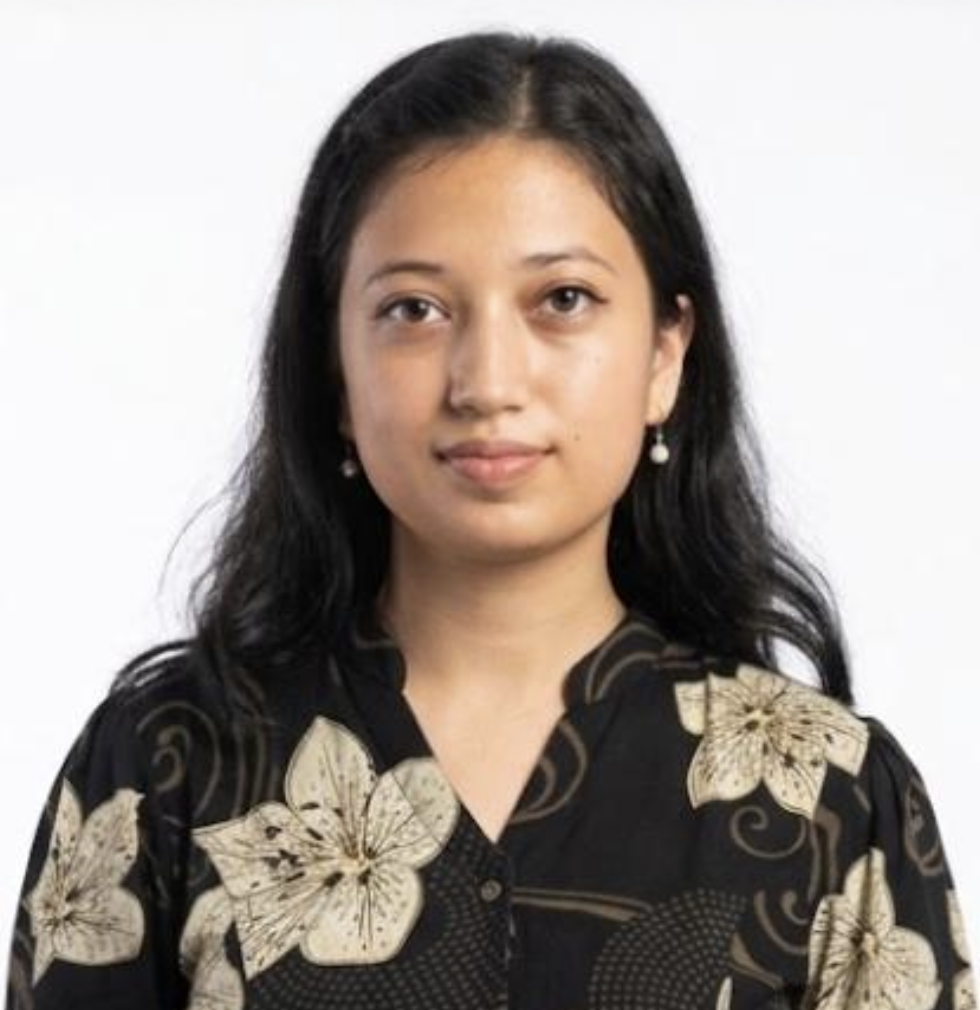
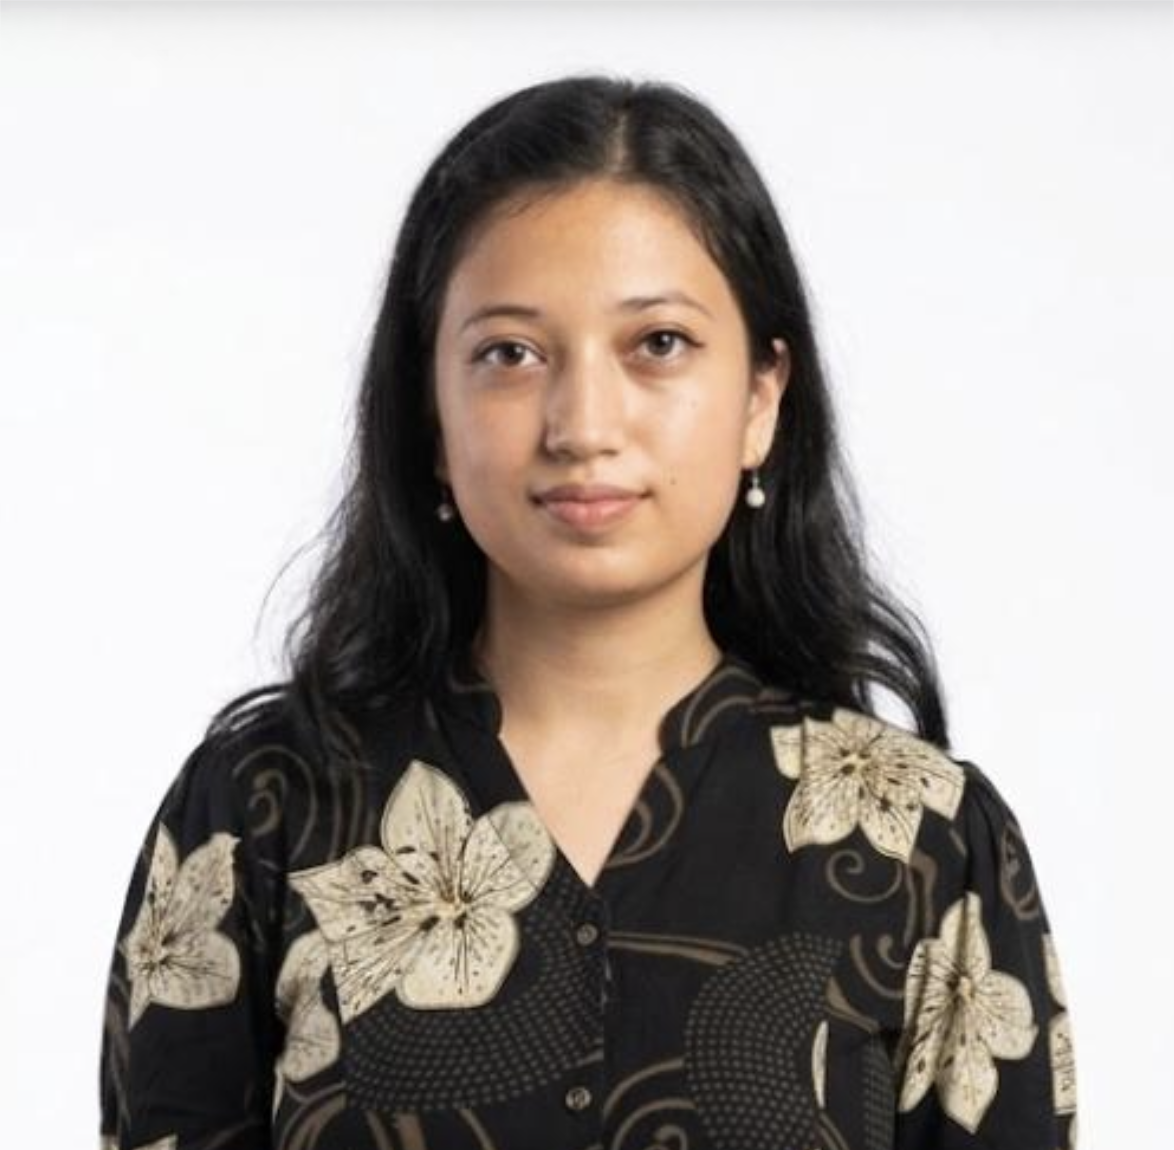
Final Website

diff --git a/src/components/Team.tsx b/src/components/Team.tsx
@@ -10,20 +10,20 @@ export function Team({ hideHeader = false }: TeamProps) {
     {
       name: "Aryan Basnet",
       position: "Founder & Chief Executive Officer",
-      image: "/images/aryan-basnet-founder-vidhata-nepal.png",
+      image: "/images/aryan_basnet_founder_vidhata.png",
       description:
         "Aryan is a technologist, social entrepreneur, policy researcher, and AI engineer. As the Founder & CEO of Vidhata, he leads the organization’s vision, strategy, and growth, bringing together his interests in technology, education, and social development. His work spans artificial intelligence, entrepreneurship, research, and public policy, with a particular focus on using technology and innovation to address complex societal challenges. His areas of interest include AI, education, economics, and public policy, with a broader commitment to creating practical and sustainable solutions that expand opportunities for underserved communities.",
       instagram: "https://www.instagram.com/__aryanbasnet__/",
       email: "mailto:basnetaryan05@gmail.com",
     },
     {
-      name: "Akhilesh Regmi",
-      position: "Chief Technology Officer",
-      image: "/images/akhilesh_regmi.png",
+      name: "Yunisha Mainali",
+      position: "Chief Operating Officer",
+      image: "/images/yunisha_mainali.png",
       description:
-        "Akhilesh is a multidisciplinary technologist and creative problem-solver with a strong commitment to innovation. As Chief Technology Officer, he blends technical expertise with design-oriented thinking to build intuitive, scalable digital solutions. His logical approach and creative perspective guide the organization’s technology strategy and its mission-driven impact.",
-      instagram: "https://www.instagram.com/akhilesh_regmi/",
-      email: "mailto:akhileshregmi@gmail.com",
+        "Yunisha is a dedicated and thoughtful leader with a strong foundation in business and organizational management. As Vidhata’s Chief Operating Officer, she oversees daily operations, coordinates teams, and works to ensure that the organization’s initiatives are executed smoothly and effectively. With a BBA background, she brings a practical understanding of planning, management, and organizational strategy to her role. Her ability to align people, streamline processes, and keep teams focused on shared goals helps strengthen Vidhata’s operations and ensures that its programs reach students effectively.",
+      instagram: "http://instagram.com/yuni.tuni/",
+      email: "mailto:yunishamainali@gmail.com",
     },
     {
       name: "Irashu Karki",
@@ -31,35 +31,52 @@ export function Team({ hideHeader = false }: TeamProps) {
       image: "/images/irashu_karki.png",
       description:
         "Irashu is an aspiring educator, interdisciplinary thinker, and purpose-driven leader committed to shaping meaningful learning experiences for young students across Nepal. As the Chief of Curriculum Development, she blends pedagogical insight, storytelling, and design-driven thinking to create interactive modules that spark curiosity and build foundational life skills in learners. Irashu brings a rare combination of empathy, clarity, and creativity into every classroom she steps into.",
-      instagram: "https://www.instagram.com/swap.nilbhattarai/",
-      email: "mailto:swapnilbhattarai2006@gmail.com",
+      email: "mailto:irashukarki200@gmail.com",
     },
     {
-      name: "Aryan Bhattarai",
-      position: "Chief Operating Officer",
-      image: "/images/aryan_bhattarai.png",
-      description:
-        "Aryan is a dedicated leader, guided by integrity and a strong will to serve his community. As the Chief Operating Officer, he oversees daily operations and ensures that all projects and members share Vidhata's core values. By designing strategies, aligning teams, and removing operational bottlenecks, he maintains efficient executions within the organization. Through his efforts, Vidhata's quality learning opportunities reach students as smoothly as possible.",
-      instagram: "https://www.instagram.com/aryanbhattarai_/",
-      email: "mailto:aryanbhattarai007@gmail.com",
-    },
-    {
-      name: "Bigyashree Khatri",
+      name: "Krizma Poudel",
       position: "Chief of Project Management",
-      image: "/images/bigyashree_khatri.png",
+      image: "/images/krizma_poudel.png",
       description:
-        "Bigyashree is a committed youth activist and a student of psychology and social work, serving as the Chief of Project Management. She has strong experience in planning and executing impact-driven projects in areas such as mental health, climate advocacy, and SRHR awareness. Through her leadership in events, volunteering initiatives, and Model United Nations, she effectively translates ideas into organized action. Her structured approach and community-focused mindset make her a vital force behind Vidhata’s programs and impact.",
-      instagram: "https://www.instagram.com/bigyashre.e/",
-      email: "mailto:bigyashreez@gmail.com",
+        "Krizma is a dedicated and organized leader with a strong focus on turning ideas into meaningful action. As Chief of Project Management, she brings a structured approach to planning, coordination, and execution, ensuring that Vidhata’s initiatives are carried out effectively and with purpose. Her ability to manage teams, connect different areas of work, and keep projects moving forward makes her an important part of Vidhata’s leadership and impact.",
+      instagram: "http://instagram.com/_kreezma/",
+      email: "mailto:krizmapoudel1@gmail.com",
+    },
+    {
+      name: "Anish Acharya",
+      position: "Chief of Outreach and Media",
+      image: "/images/anish_acharya.png",
+      description:
+        "Anish is a dedicated youth leader and a student of Development Studies, serving as the Chief of Outreach and Media. He brings experience in community engagement, communication, and youth-led initiatives, with a strong interest in creating meaningful connections between people and organizations. Through his involvement in outreach activities, volunteering, and collaborative projects, he has developed a thoughtful approach to building partnerships and communicating ideas effectively. His strong communication skills and community-focused perspective make him an important part of Vidhata’s outreach, visibility, and engagement.",
+      instagram: "https://www.instagram.com/krazyyanishh/",
+      email: "mailto:acharyaanish34@gmail.com",
+    },
+    {
+      name: "Akhilesh Regmi",
+      position: "Chief Technology Officer",
+      image: "/images/akhilesh_regmi.png",
+      description:
+        "Akhilesh is a multidisciplinary technologist and creative problem-solver serving as Vidhata’s Chief Technology Officer, focused on building practical and innovative digital solutions. He brings a strong blend of technical expertise, logical thinking, and design-oriented creativity to the organization’s technology initiatives. Through his work at Vidhata, he supports the development of digital tools, systems, and platforms that strengthen the organization’s programs and operations. His ability to approach complex challenges with both technical precision and creativity makes him an important part of Vidhata’s leadership.",
+      instagram: "https://www.instagram.com/akhilesh_regmi/",
+      email: "mailto:akhileshregmi@gmail.com",
     },
     {
       name: "Bharat Oli",
       position: "Chief Community Officer",
-      image: "/images/bharatoli.png",
+      image: "/images/bharat_oli.png",
       description:
         "Bharat is a people-focused student leader serving as Vidhata’s Chief Community Officer, dedicated to building a strong, connected, and welcoming organizational community. He brings a thoughtful approach to volunteer engagement, team-building, and creating meaningful opportunities for members to connect beyond their regular responsibilities. Through his work at Vidhata, he contributes to fostering a positive and inclusive culture where volunteers feel valued, involved, and motivated to grow together. His leadership and initiative strengthen the sense of community that lies at the heart of Vidhata.",
       instagram: "https://www.instagram.com/_olibharat/",
       email: "mailto:olibharat947@gmail.com",
+    },
+    {
+      name: "Sapana Bastola",
+      position: "Chief Financial Officer",
+      image: "/images/sapana_bastola.png",
+      description:
+        "Sapana is a finance enthusiast, writer, and emerging youth leader aspiring to be a people-oriented changemaker. As the Chief Financial Officer at Vidhata, she works at the intersection of financial strategy, resource management, and organizational growth. Her interests extend across literature, mathematics, finance, and volunteering, bringing together both analytical thinking and a curiosity for people and ideas. She is someone who looks beyond the obvious, searching for depth and meaning as she explores the world around her. Through her work, decisions, and ideas, she hopes to keep learning, contributing, and growing while creating meaningful impact along the way.",
+      instagram: "http://instagram.com/citentia.felix/",
+      email: "mailto:sapanabastola9@gmail.com",
     },
   ];
 
@@ -71,9 +88,11 @@ export function Team({ hideHeader = false }: TeamProps) {
             <h2 className="text-vidhata-teal text-base sm:text-lg mb-3 tracking-wide font-semibold uppercase">
               Our Team
             </h2>
+
             <h3 className="text-3xl sm:text-4xl lg:text-5xl font-bold text-vidhata-navy mb-6">
               Meet the People Behind Vidhata
             </h3>
+
             <p className="text-gray-600 text-base sm:text-lg lg:text-xl max-w-3xl mx-auto leading-relaxed">
               Our dedicated leadership team brings together expertise in
               education, operations, technology, and curriculum development to
@@ -84,7 +103,6 @@ export function Team({ hideHeader = false }: TeamProps) {
 
         {/* Team Grid */}
         <div className="grid grid-cols-1 md:grid-cols-2 gap-8 sm:gap-10 lg:gap-14">
-
           {teamMembers.map((member, index) => (
             <Card
               key={index}
@@ -104,10 +122,7 @@ export function Team({ hideHeader = false }: TeamProps) {
                 text-center
               "
             >
-
-              {/* =========================================
-                  LARGE CIRCULAR PROFILE IMAGE
-                  ========================================= */}
+              {/* LARGE CIRCULAR PROFILE IMAGE */}
               <div className="w-full flex justify-center pt-6 sm:pt-8 px-4">
                 <div
                   className="
@@ -143,9 +158,7 @@ export function Team({ hideHeader = false }: TeamProps) {
                 </div>
               </div>
 
-              {/* =========================================
-                  CONTENT
-                  ========================================= */}
+              {/* CONTENT */}
               <div
                 className="
                   w-full
@@ -162,7 +175,6 @@ export function Team({ hideHeader = false }: TeamProps) {
                   items-center
                 "
               >
-
                 {/* Name */}
                 <h4
                   className="
@@ -206,7 +218,6 @@ export function Team({ hideHeader = false }: TeamProps) {
 
                 {/* Social Icons */}
                 <div className="flex gap-4 mt-auto">
-
                   {member.instagram && (
                     <a
                       href={member.instagram}
@@ -228,16 +239,15 @@ export function Team({ hideHeader = false }: TeamProps) {
                         duration-300
                       "
                     >
-                      <Instagram
-                        size={21}
-                        strokeWidth={1.8}
-                      />
+                      <Instagram size={21} strokeWidth={1.8} />
                     </a>
                   )}
 
                   {member.email && (
                     <a
                       href={member.email}
+                      target="_blank"
+                      rel="noopener noreferrer"
                       aria-label={`Email ${member.name}`}
                       className="
                         w-12
@@ -254,18 +264,13 @@ export function Team({ hideHeader = false }: TeamProps) {
                         duration-300
                       "
                     >
-                      <Mail
-                        size={21}
-                        strokeWidth={1.8}
-                      />
+                      <Mail size={21} strokeWidth={1.8} />
                     </a>
                   )}
-
                 </div>
               </div>
             </Card>
           ))}
-
         </div>
       </div>
     </section>
